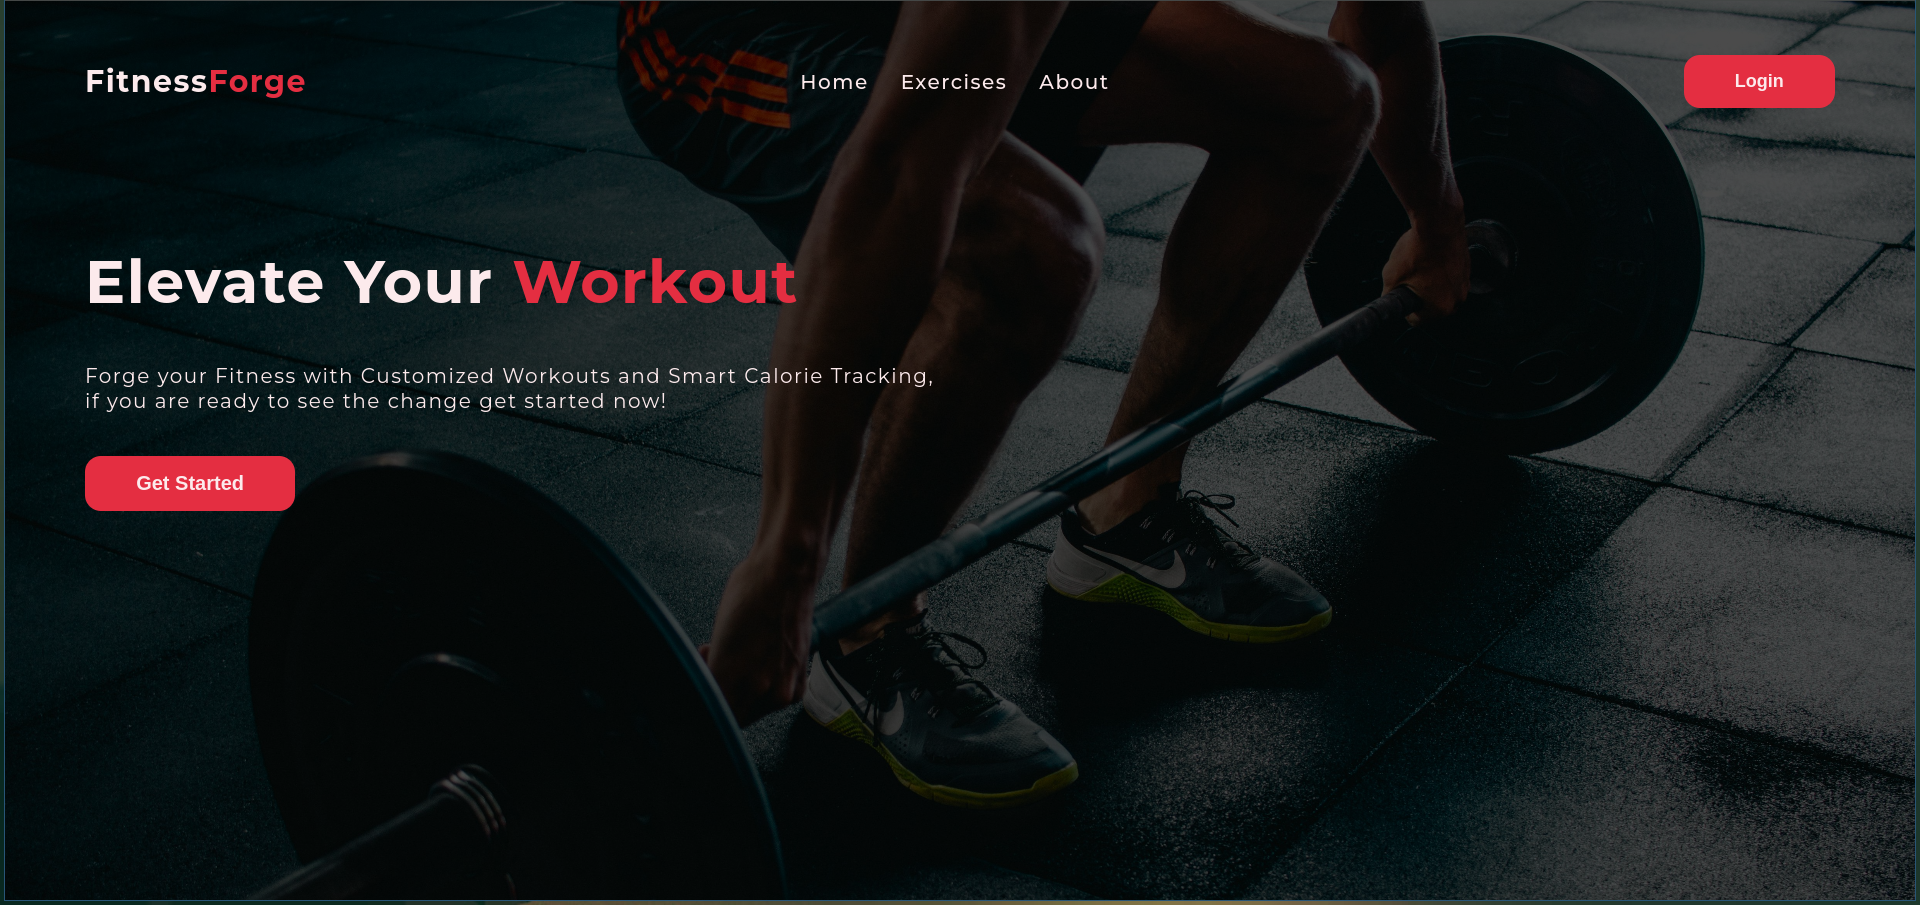
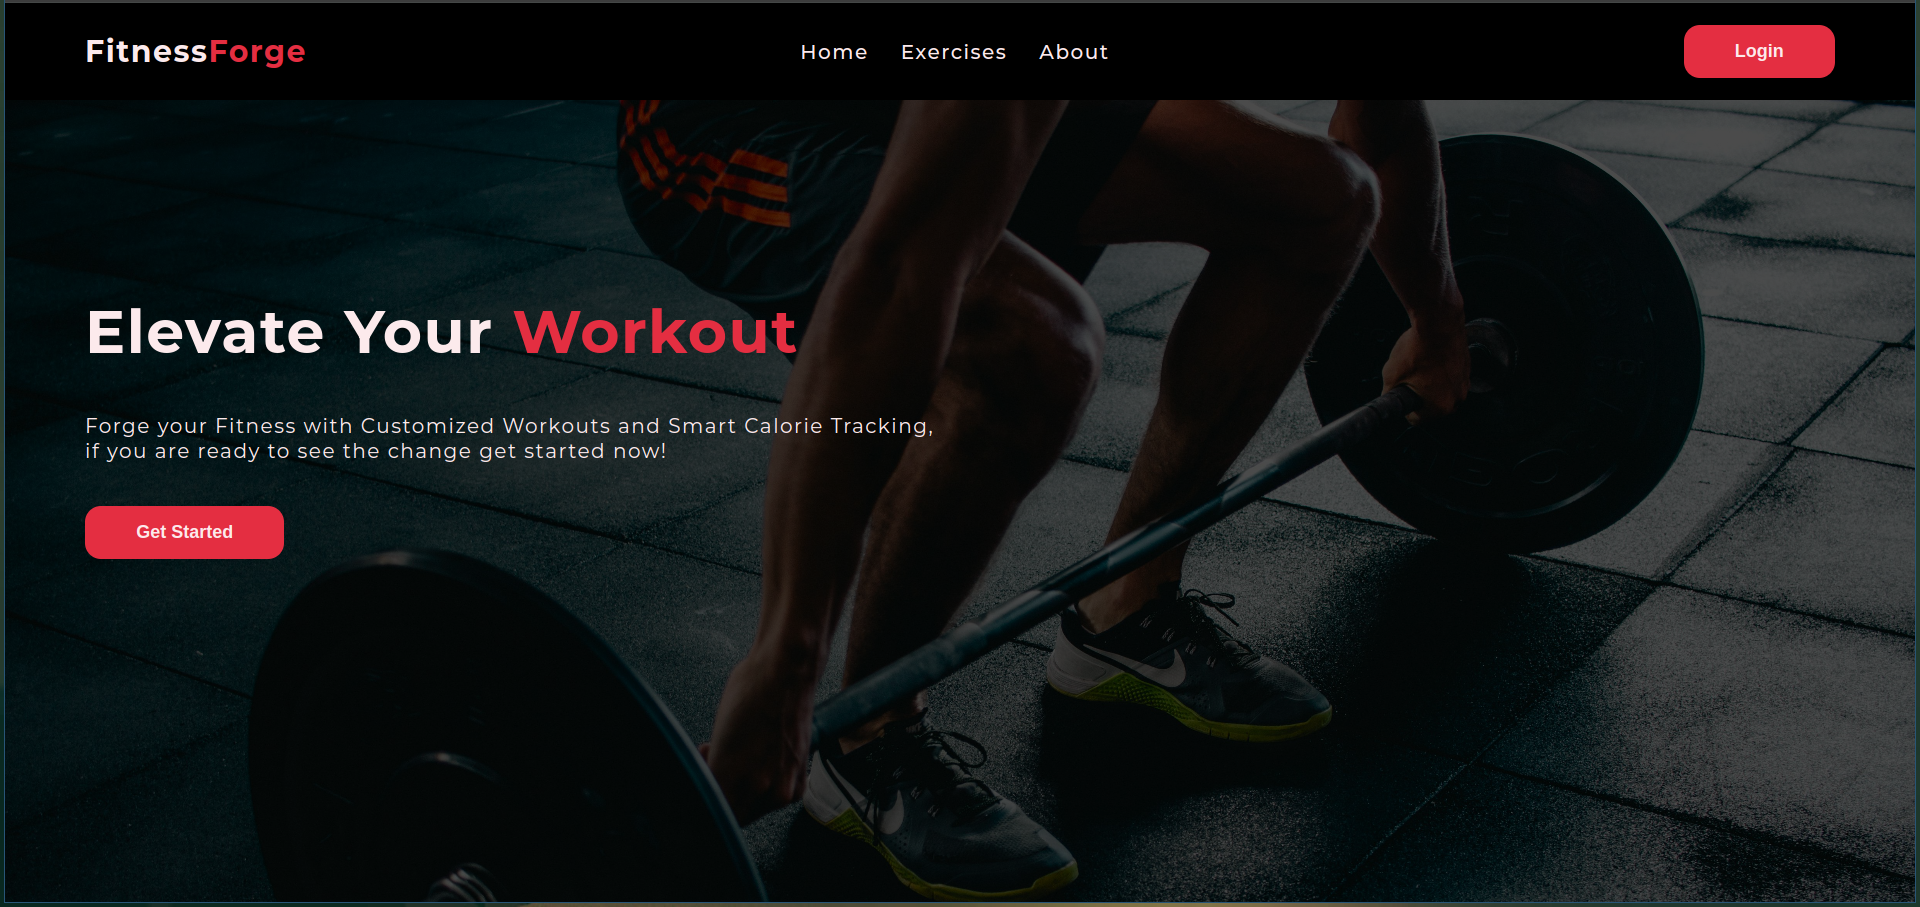
working on the authentication component in the front end

diff --git a/frontend/src/routes/home/home.styles.css b/frontend/src/routes/home/home.styles.css
@@ -4,13 +4,12 @@ body {
 
 .main-container {
   display: block;
-  position: absolute;
+  position: fixed;
   background-image: url('../../assets/images/home-page-background.jpg');
   background-size: cover;
   height: 100%;
   width: 100%;
   z-index: 0;
-  overflow: auto;
 }
 
 .main-container__backdrop {
@@ -20,90 +19,6 @@ body {
   background-color: rgba(0, 0, 0, 0.7);
   z-index: 1;
   position: fixed;
-}
-
-.main-container__navbar {
-  display: flex;
-  flex-direction: row;
-  justify-content: space-between;
-  align-items: center;
-  padding-top: 2rem;
-}
-
-.main-container__navbar a {
-  text-decoration: none;
-}
-
-.navbar-link__left {
-  flex: 1;
-  font-size: 30px;
-  font-weight: bold;
-  padding-left: 5rem;
-}
-
-#title {
-  color: #FCEAEC;
-}
-
-#inner-title {
-  color: #E42E41;
-}
-
-.navbar-link__middle {
-  flex: 1;
-  display: flex;
-  justify-content: flex-start;
-  list-style: none;
-  margin-right: 15rem;
-}
-
-.navbar-link__middle .middle-body {
-  margin-left: 1rem;
-  margin-right: 1rem;
-  font-size: 20px;
-  font-weight: 500;
-}
-
-.middle-body a {
-  color: #FCEAEC;
-  position: relative;
-}
-
-.middle-body a::after {
-  content: '';
-  position: absolute;
-  width: 100%;
-  height: 2px;
-  bottom: -2px;
-  left: 0;
-  background-color: #E42E41;
-  transform-origin: left;
-  transform: scaleX(0);
-  transition: transform 0.3s ease-out;
-}
-
-.middle-body a:hover::after {
-  transform: scaleX(1);
-}
-
-.navbar-link__right {
-  display: flex;
-  justify-content: flex-end;
-  margin-right: 5rem;
-  padding: 1rem 3.2rem;
-  font-size: 1.125rem;
-  font-weight: bold;
-  background-color: #E42E41;
-  border: none;
-  color: #FCEAEC;
-  border-radius: 16px;
-}
-
-.navbar-link__right:hover,
-.navbar-link__right:active {
-  background-color: #170507;
-  transition: 0.3s ease-out;
-  cursor: pointer;
 }
 
 .main-description-container {
@@ -119,6 +34,7 @@ body {
   font-size: 60px;
   font-weight: bold;
   line-height: 1.5rem;
+  margin-top: 5rem;
 }
 
 .main-description-container__title span {
@@ -142,22 +58,5 @@ body {
 
   .main-description-container__description {
     line-height: 1.3rem;
-  }
-
-  .navbar-link__left {
-    margin-right: 7rem;
-  }
-
-  .navbar-link__middle {
-    margin-right: 5rem;
-  }
-
-  .navbar-link__right {
-    margin-left: 2rem;
-    margin-top: 20px;
-  }
-
-  .main-container__navbar {
-    flex-direction: column;
   }
 }

diff --git a/frontend/src/routes/navigation/navigation.styles.css b/frontend/src/routes/navigation/navigation.styles.css
@@ -1,0 +1,102 @@
+.main-container__navbar {
+  display: flex;
+  flex-direction: row;
+  justify-content: space-between;
+  align-items: center;
+  background: black;
+}
+
+.main-container__navbar a {
+  text-decoration: none;
+}
+
+.navbar-link__left {
+  flex: 1;
+  font-size: 30px;
+  font-weight: bold;
+  padding-left: 5rem;
+}
+
+#title {
+  color: #FCEAEC;
+}
+
+#inner-title {
+  color: #E42E41;
+}
+
+.navbar-link__middle {
+  flex: 1;
+  display: flex;
+  justify-content: flex-start;
+  list-style: none;
+  margin-right: 15rem;
+}
+
+.navbar-link__middle .middle-body {
+  margin-left: 1rem;
+  margin-right: 1rem;
+  font-size: 20px;
+  font-weight: 500;
+}
+
+.middle-body a {
+  color: #FCEAEC;
+  position: relative;
+}
+
+.middle-body a::after {
+  content: '';
+  position: absolute;
+  width: 100%;
+  height: 2px;
+  bottom: -2px;
+  left: 0;
+  background-color: #E42E41;
+  transform-origin: left;
+  transform: scaleX(0);
+  transition: transform 0.3s ease-out;
+}
+
+.middle-body a:hover::after {
+  transform: scaleX(1);
+}
+
+.navbar-link__right {
+  display: flex;
+  justify-content: flex-end;
+  margin-right: 5rem;
+  padding: 1rem 3.2rem;
+  font-size: 1.125rem;
+  font-weight: bold;
+  background-color: #E42E41;
+  border: none;
+  color: #FCEAEC;
+  border-radius: 16px;
+}
+
+.navbar-link__right:hover,
+.navbar-link__right:active {
+  background-color: #170507;
+  transition: 0.3s ease-out;
+  cursor: pointer;
+}
+
+@media (max-width: 75rem) {
+  .navbar-link__left {
+    margin-right: 7rem;
+  }
+
+  .navbar-link__middle {
+    margin-right: 5rem;
+  }
+
+  .navbar-link__right {
+    margin-left: 2rem;
+    margin-top: 20px;
+  }
+
+  .main-container__navbar {
+    flex-direction: column;
+  }
+}

diff --git a/frontend/src/routes/home/home.component.tsx b/frontend/src/routes/home/home.component.tsx
@@ -1,5 +1,5 @@
 import { useCallback } from 'react';
-import { useNavigate, Link } from 'react-router-dom';
+import { useNavigate } from 'react-router-dom';
 import './home.styles.css'
 
 const Home = () => {
@@ -12,35 +12,6 @@ const Home = () => {
   return (
     <div className='main-container'>
       <div className='main-container__backdrop'>
-        <nav className='main-container__navbar'>
-          <Link to='/' className='navbar-link__left'>
-            <p id='title'>
-              Fitness<span id='inner-title'>Forge</span>
-            </p>
-          </Link>
-          <ul className='navbar-link__middle'>
-            <li className='middle-body'>
-              <Link to='/'>
-                Home
-              </Link>
-            </li>
-
-            <li className='middle-body'>
-              <Link to='/exercises'>
-                Exercises
-              </Link>
-            </li>
-
-            <li className='middle-body'>
-              <Link to='/about'>
-                About
-              </Link>
-            </li>
-          </ul>
-
-          <button onClick={() => navigateToPage('/login')} className='navbar-link__right'>Login</button>
-        </nav>
-
         <div className='main-description-container'>
           <div className='main-description-container__title'>
             <p>Elevate Your

diff --git a/frontend/src/routes/navigation/navigation.component.tsx b/frontend/src/routes/navigation/navigation.component.tsx
@@ -1,0 +1,48 @@
+import { useCallback } from "react";
+import { Link, Outlet } from "react-router-dom";
+import { useNavigate } from "react-router-dom";
+import './navigation.styles.css'
+
+const Navigation = () => {
+  const navigate = useNavigate();
+
+  const navigateToPage = useCallback((path: string) => {
+    navigate(path);
+  }, [navigate]);
+
+  return (
+    <>
+      <nav className='main-container__navbar'>
+        <Link to='/' className='navbar-link__left'>
+          <p id='title'>
+            Fitness<span id='inner-title'>Forge</span>
+          </p>
+        </Link>
+        <ul className='navbar-link__middle'>
+          <li className='middle-body'>
+            <Link to='/'>
+              Home
+            </Link>
+          </li>
+
+          <li className='middle-body'>
+            <Link to='/exercises'>
+              Exercises
+            </Link>
+          </li>
+
+          <li className='middle-body'>
+            <Link to='/about'>
+              About
+            </Link>
+          </li>
+        </ul>
+
+        <button onClick={() => navigateToPage('/login')} className='navbar-link__right'>Login</button>
+      </nav>
+      <Outlet />
+    </>
+  );
+};
+
+export default Navigation;

diff --git a/frontend/src/App.tsx b/frontend/src/App.tsx
@@ -9,16 +9,18 @@ import Login from './routes/login/login.component';
 import Register from './routes/register/register.component';
 import Exercises from './routes/exercises/exercises.component';
 import About from './routes/about/about.component';
+import Navigation from './routes/navigation/navigation.component';
 
 const App = () => {
   return (
     <Router>
+      <Navigation />
       <Routes>
-        <Route path='/' element={<Home />} />
-        <Route path='/login' element={<Login />} />
-        <Route path='/register' element={<Register />} />
-        <Route path='/exercises' element={<Exercises />} />
-        <Route path='/about' element={<About />} />
+          <Route index element={<Home />} />
+          <Route path='/login' element={<Login />} />
+          <Route path='/register' element={<Register />} />
+          <Route path='/exercises' element={<Exercises />} />
+          <Route path='/about' element={<About />} />
       </Routes>
     </Router>
   );

diff --git a/frontend/src/routes/login/login.component.tsx b/frontend/src/routes/login/login.component.tsx
@@ -1,7 +1,6 @@
 const Login = () => {
   return (
-    <div>
-      This is the login page.
+    <div className="auth-main-container">
     </div>
   );
 }
